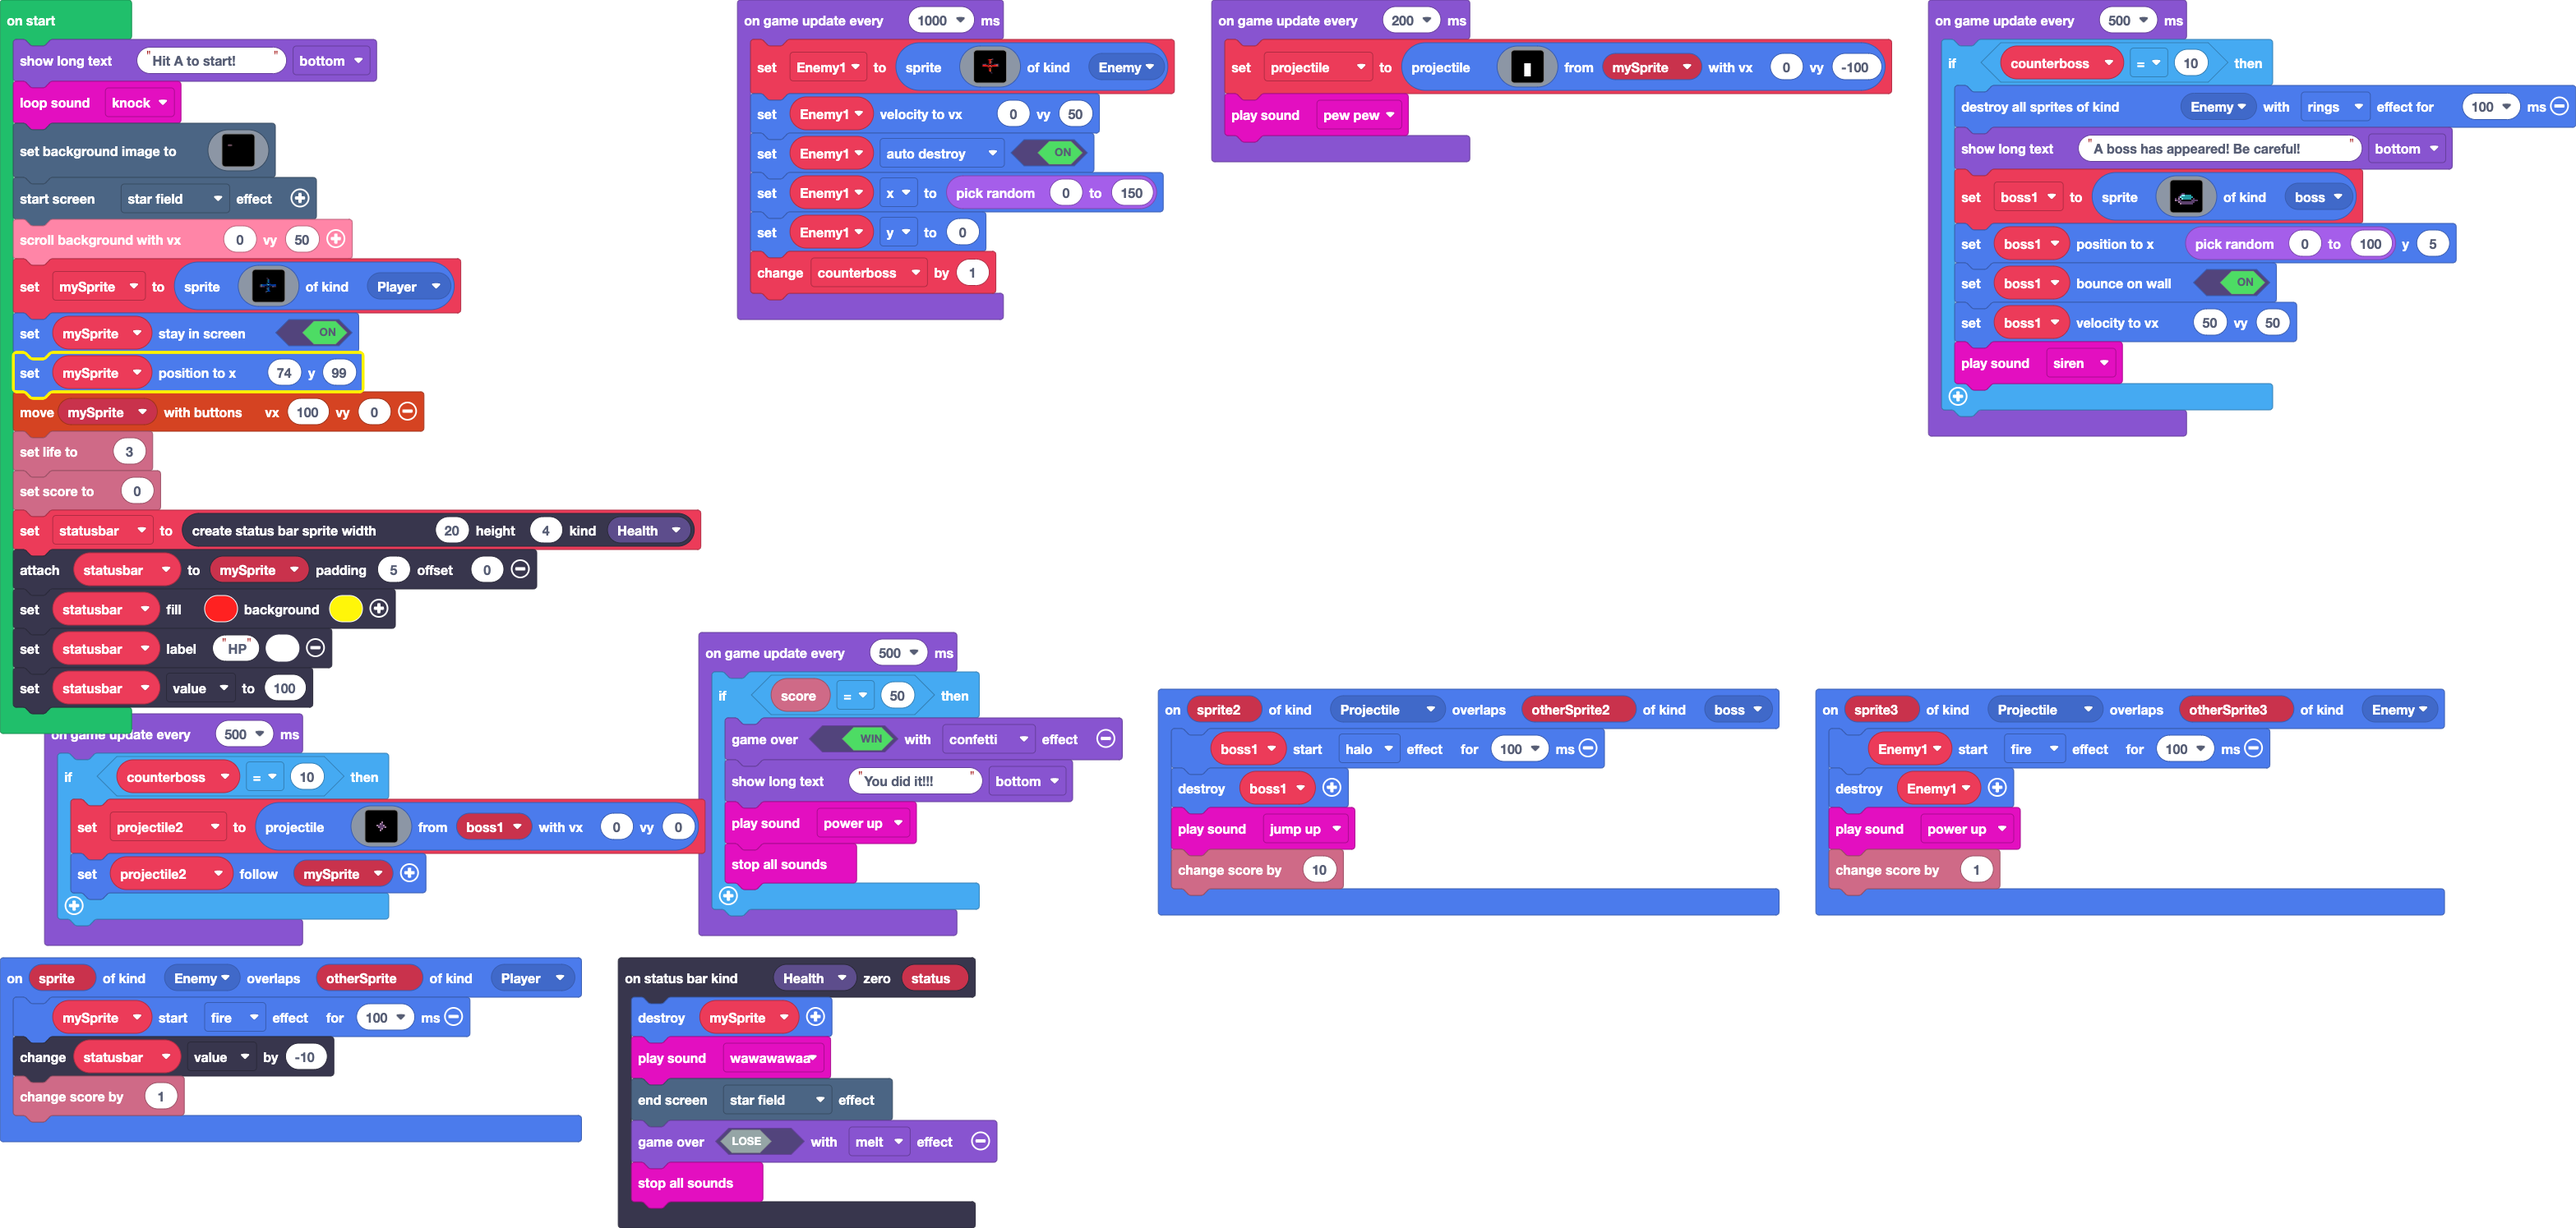
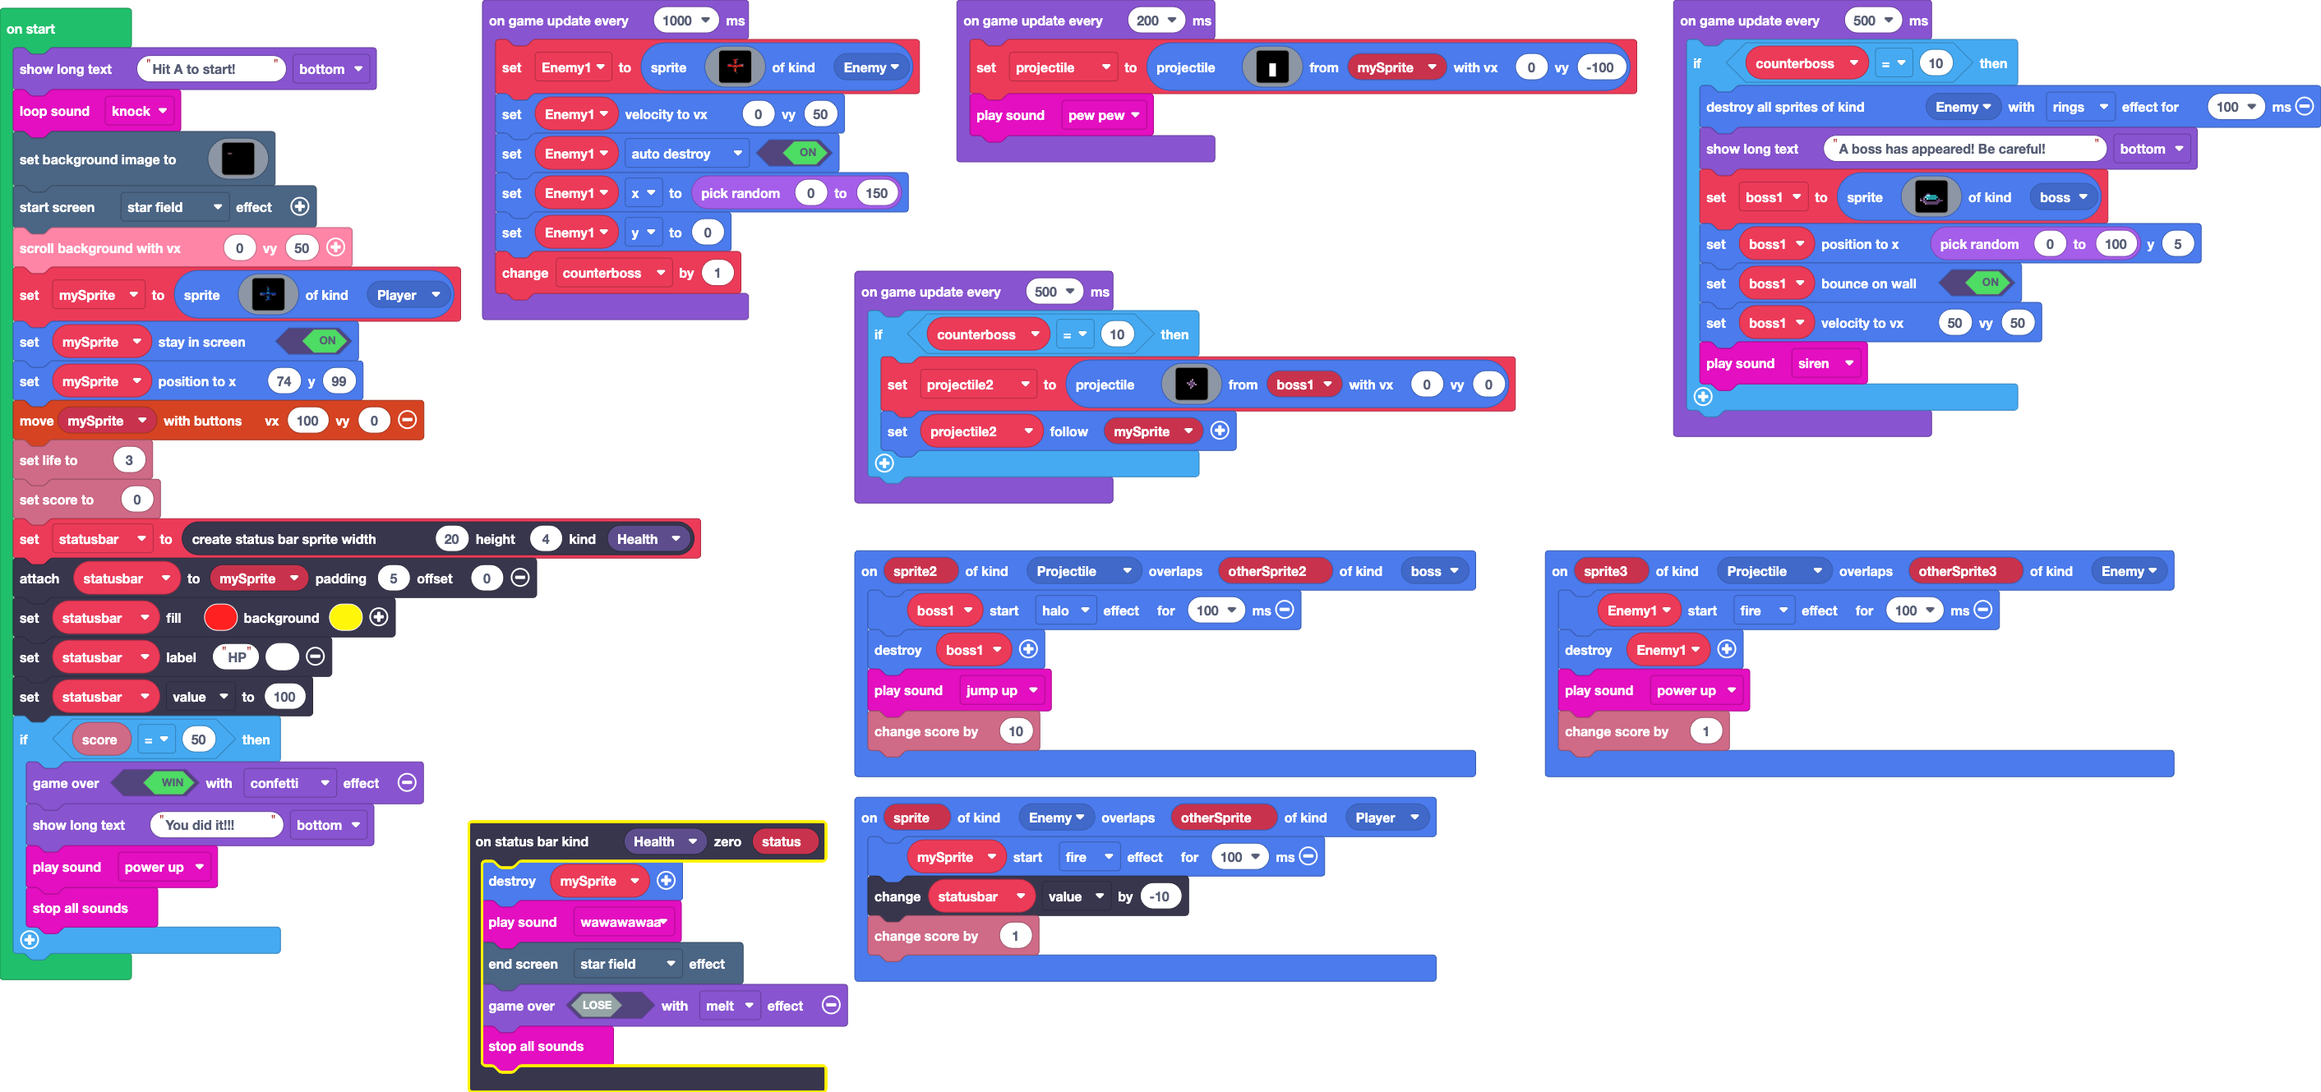
Update pxt.json, main.blocks, main.ts, main.py

diff --git a/main.ts b/main.ts
@@ -190,6 +190,12 @@ statusbar.attachToSprite(mySprite, 5, 0)
 statusbar.setColor(2, 5)
 statusbar.setLabel("HP", 1)
 statusbar.value = 100
+if (info.score() == 50) {
+    game.over(true, effects.confetti)
+    game.showLongText("You did it!!!", DialogLayout.Bottom)
+    music.powerUp.play()
+    music.stopAllSounds()
+}
 game.onUpdateInterval(1000, function () {
     Enemy1 = sprites.create(img`
         ...........fffffc...........
@@ -224,14 +230,6 @@ game.onUpdateInterval(500, function () {
         boss1.setBounceOnWall(true)
         boss1.setVelocity(50, 50)
         music.siren.play()
-    }
-})
-game.onUpdateInterval(500, function () {
-    if (info.score() == 50) {
-        game.over(true, effects.confetti)
-        game.showLongText("You did it!!!", DialogLayout.Bottom)
-        music.powerUp.play()
-        music.stopAllSounds()
     }
 })
 game.onUpdateInterval(500, function () {

diff --git a/main.py b/main.py
@@ -187,6 +187,7 @@ mySprite = sprites.create(img("""
     """),
     SpriteKind.player)
 mySprite.set_stay_in_screen(True)
+mySprite.set_position(74, 99)
 controller.move_sprite(mySprite, 100, 0)
 info.set_life(3)
 info.set_score(0)
@@ -232,6 +233,7 @@ def on_update_interval2():
         boss1 = sprites.create(assets.image("""
             Boss
         """), SpriteKind.boss)
+        boss1.set_position(randint(0, 100), 5)
         boss1.set_bounce_on_wall(True)
         boss1.set_velocity(50, 50)
         music.siren.play()
